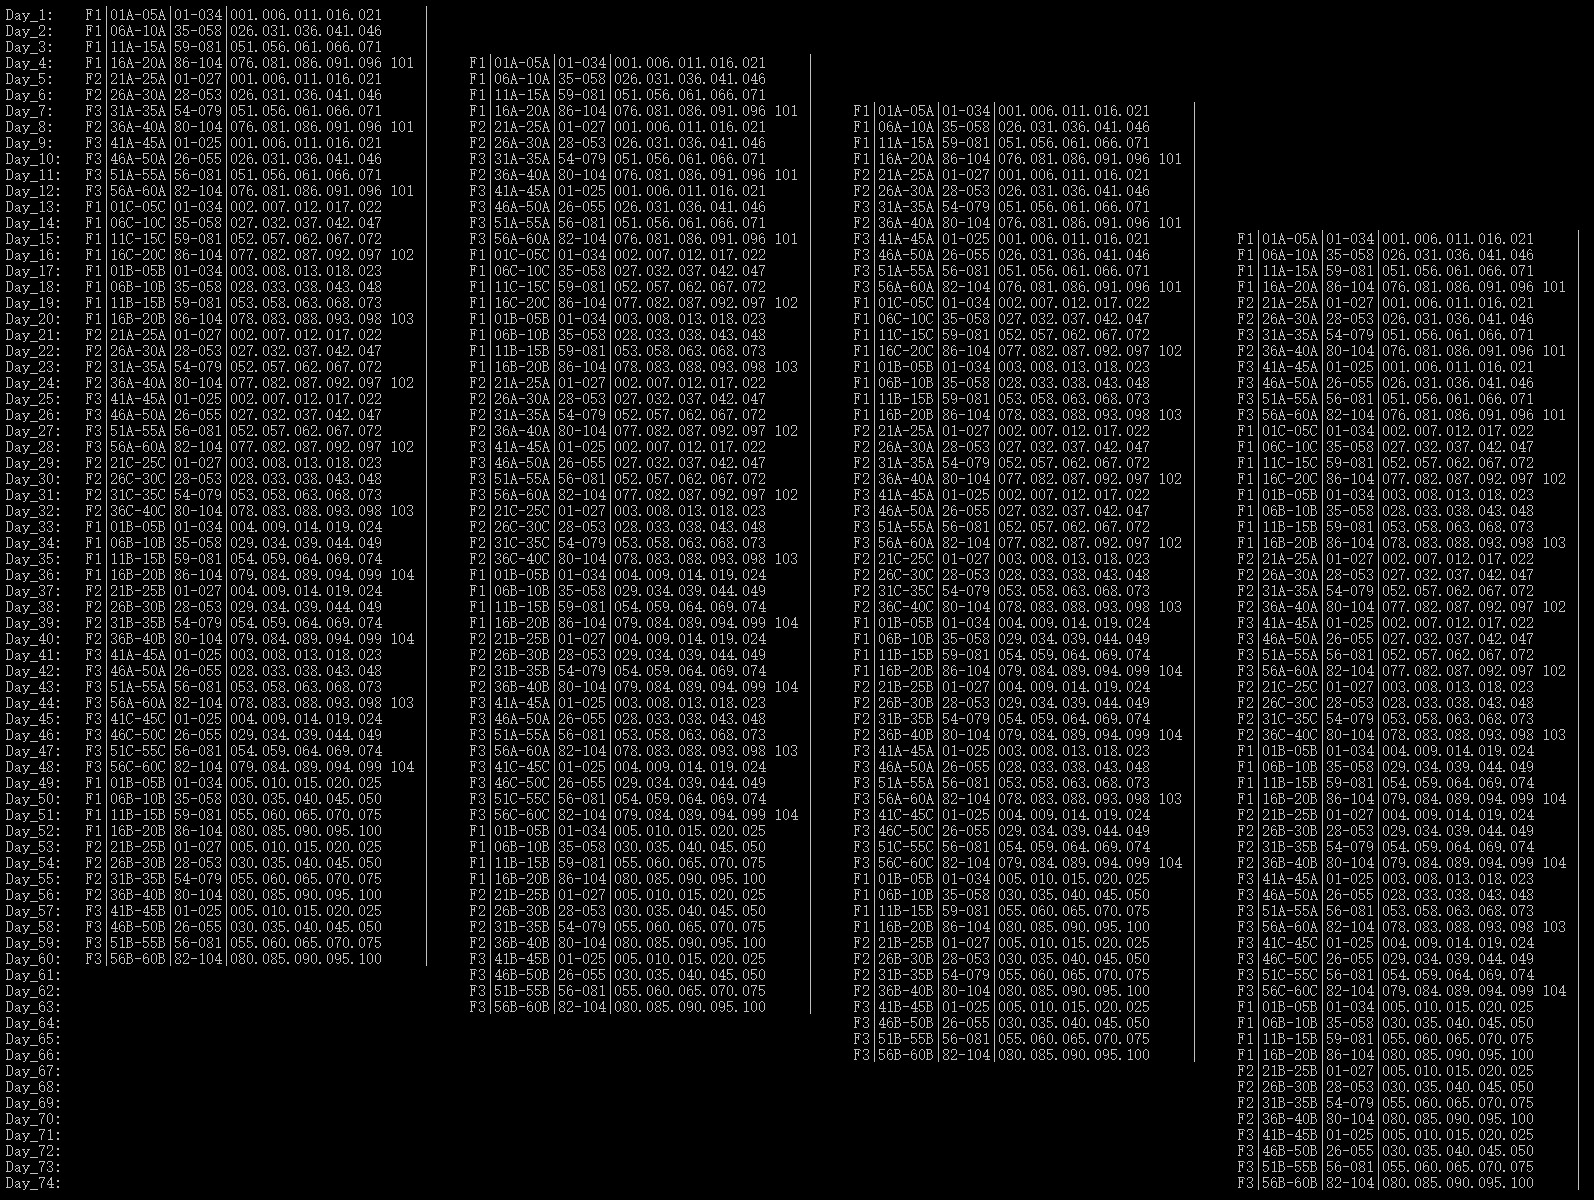
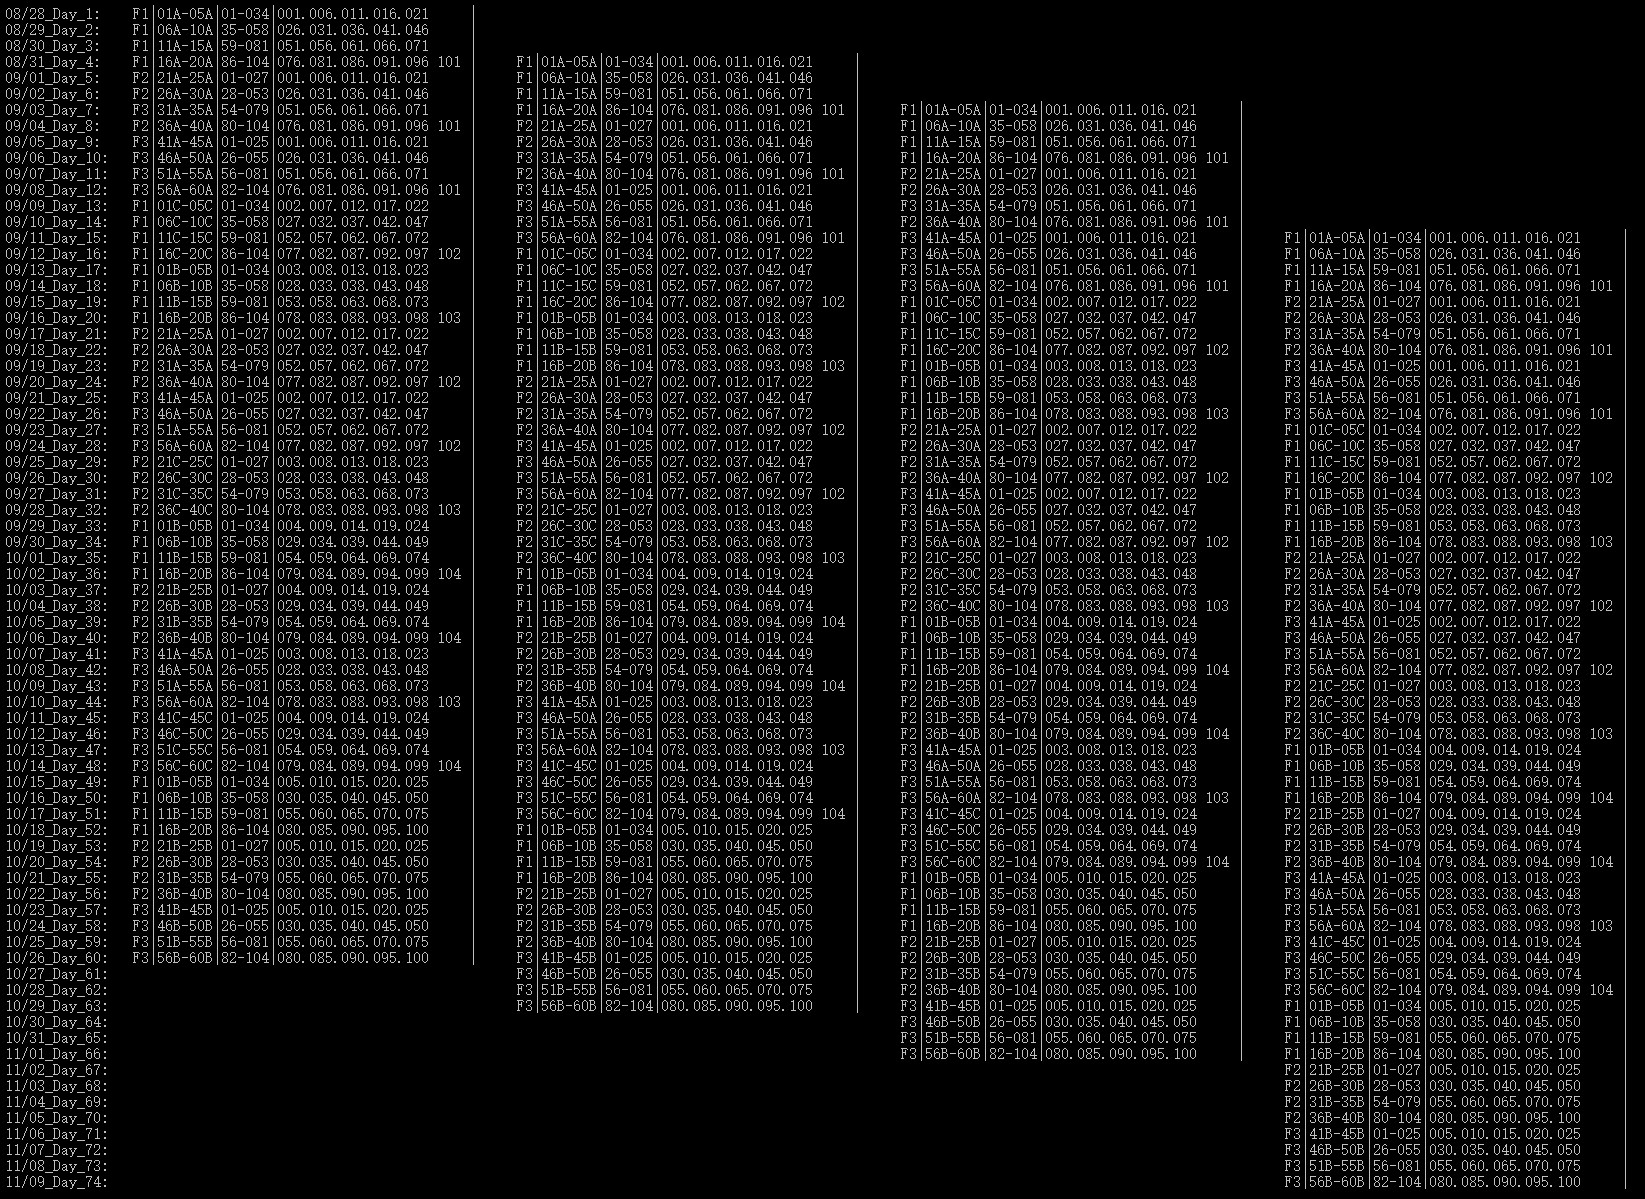
1

Changed region(s): [[0.0, 0.0, 1.0, 1.0]]

diff --git a/some_test/main.cpp b/some_test/main.cpp
@@ -2,6 +2,8 @@
 #include <sstream>
 #include <iomanip>
 #include <windows.h>
+#include <ctime>
+#include <stdlib.h>
 
 #ifdef _MSC_VER  
 //#pragma comment( linker, "/subsystem:\"windows\" /entry:\"mainCRTStartup\"" )  
@@ -195,14 +197,25 @@ void PrintSchedule() {
 
     std::cout << std::endl;
 
+    std::tm start_tm = { 0 };
+    std::istringstream start_tm_str("2017 8 28");
+    start_tm_str >> std::get_time(&start_tm, "%Y %m %d");
+
     for (int i = 1; i < finish_days; i++) {
+
         std::ostringstream os;
+        os << std::put_time(&start_tm, "%m/%d") << "_";
         os << "Day_" << std::to_string(i) << ":   ";
+
         std::cout << std::setiosflags(std::ios::left);
-        std::cout << " " << std::setw(10) << os.str();
+        std::cout << " " << std::setw(16) << os.str();
         for (int j = 0; j < repeat_count; j++) {
             std::cout << std::setw(48) << get_task_name(i, repeat_date[j], task_count);
         }
+
+        start_tm.tm_mday += 1;
+        std::mktime(&start_tm);
+
         std::cout << std::endl;
     }
 
@@ -290,11 +303,26 @@ void PrintSR() {
     }
 }
 
+
+void PrintTime() {
+
+    std::tm start_tm = { 0 };
+    std::istringstream start_tm_str("2017 8 28");
+    start_tm_str >> std::get_time(&start_tm, "%Y %m %d");
+
+    for (int i = 0; i < 100; i++) {
+        std::cout << std::put_time(&start_tm, "%c") << std::endl;
+        start_tm.tm_mday += 1;
+        std::mktime(&start_tm);
+    }
+}
+
 int APIENTRY wWinMain(
     HINSTANCE, HINSTANCE, wchar_t*, int) {
 
     std::cout << std::endl;
 
+    //PrintTime();
     //PrintSR();
     //PrintTask();
     PrintSchedule();
